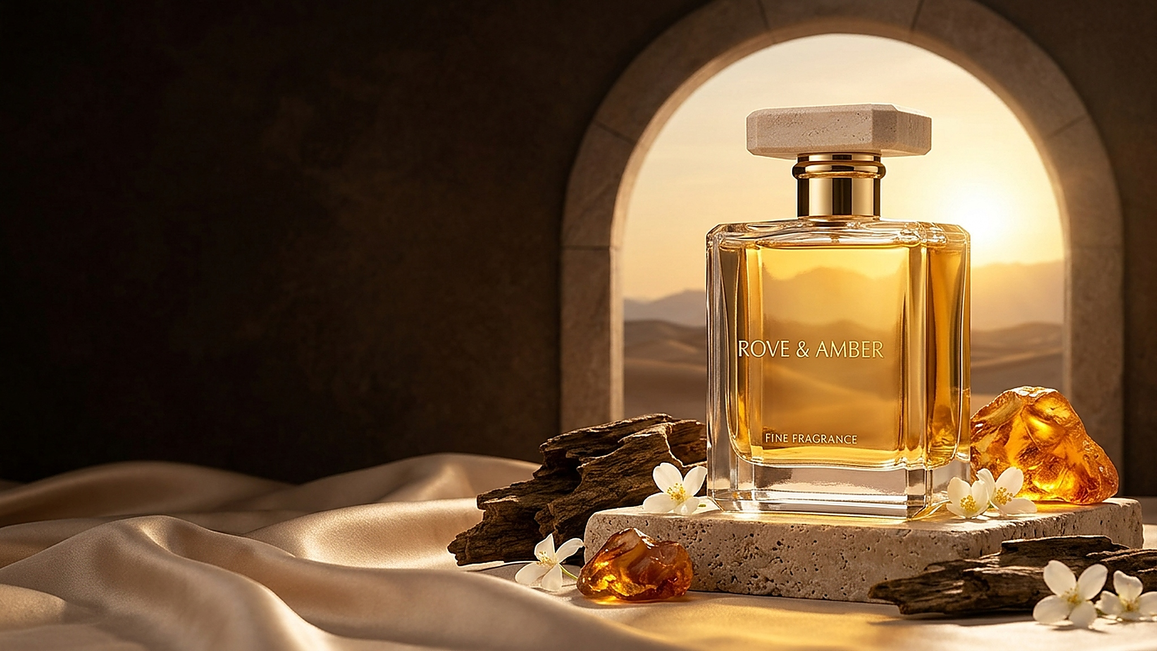
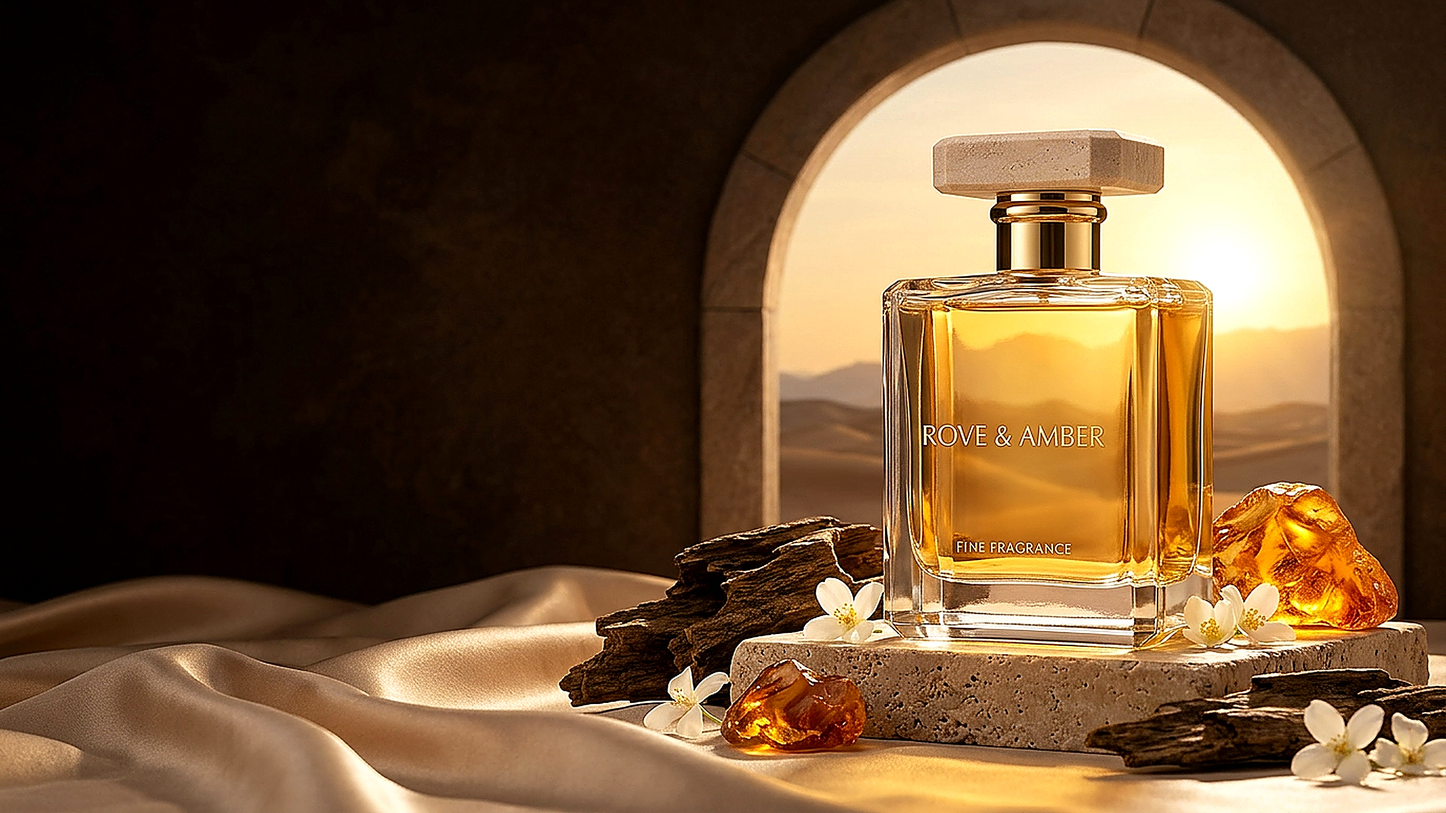
fix(hero): place explore button strictly right of shop now and enhance image clarity

diff --git a/client/src/components/home/Hero.jsx b/client/src/components/home/Hero.jsx
@@ -11,29 +11,29 @@ const Hero = () => {
         <picture>
           <source 
             media="(min-width: 768px)" 
-            srcSet="/images/perfumes/hero_campaign_clean_master_hd.jpg" 
+            srcSet="/images/perfumes/hero_campaign_ultra_clear_master.jpg" 
           />
           <img 
             src="/images/perfumes/hero_mobile_sunset_arch_hd.jpg" 
             alt="ROVE & AMBER Signature Eau de Parfum" 
-            className="w-full h-full object-cover object-[center_top] md:object-[78%_center] lg:object-[82%_center]"
+            className="w-full h-full object-cover object-[center_top] md:object-[68%_center] lg:object-[66%_center]"
             onError={(e) => {
-              e.target.src = '/images/perfumes/hero_campaign_clean_master_hd.jpg';
+              e.target.src = '/images/perfumes/hero_campaign_ultra_clear_master.jpg';
             }}
           />
         </picture>
 
         {/* Smooth, subtle dark-brown gradient from left to right (No backdrop-blur, completely seamless) */}
         <div className="absolute inset-0 bg-gradient-to-b from-black/60 via-black/20 to-black/45 md:hidden pointer-events-none" />
-        <div className="hidden md:block absolute inset-0 bg-gradient-to-r from-[#120905]/90 via-[#120905]/40 via-45% to-transparent w-full pointer-events-none" />
-        <div className="hidden md:block absolute top-0 inset-x-0 h-28 bg-gradient-to-b from-black/45 via-black/15 to-transparent pointer-events-none" />
+        <div className="hidden md:block absolute inset-0 bg-gradient-to-r from-[#120905]/85 via-[#120905]/20 via-40% to-transparent w-full pointer-events-none" />
+        <div className="hidden md:block absolute top-0 inset-x-0 h-24 bg-gradient-to-b from-black/40 via-black/10 to-transparent pointer-events-none" />
       </div>
 
       {/* Hero Text Content (Separately Rendered Vector Typography) */}
-      <div className="relative z-20 max-w-7xl mx-auto px-6 sm:px-10 lg:px-14 w-full pt-36 sm:pt-44 lg:pt-48 pb-10 sm:pb-12 flex-1 flex flex-col justify-start md:justify-center">
+      <div className="relative z-20 max-w-7xl mx-auto px-6 sm:px-10 lg:px-14 w-full pt-28 sm:pt-32 md:pt-36 lg:pt-36 pb-8 sm:pb-12 flex-1 flex flex-col justify-center">
         <div className="max-w-md sm:max-w-lg lg:max-w-xl text-left">
           {/* Eyebrow / Brand Descriptor */}
-          <div className="flex items-center gap-2.5 mb-3 sm:mb-4">
+          <div className="flex items-center gap-2.5 mb-2.5 sm:mb-3.5">
             <span className="w-6 sm:w-8 h-[1.5px] bg-[#E5B869]" />
             <p className="text-[10px] sm:text-xs md:text-sm tracking-[0.28em] font-medium uppercase text-[#E5B869] drop-shadow-sm">
               Fine Fragrance & Artisanal Perfumery
@@ -41,21 +41,21 @@ const Hero = () => {
           </div>
 
           {/* Main Title */}
-          <h1 className="text-3xl xs:text-4xl sm:text-5xl md:text-5xl lg:text-[62px] font-serif leading-[1.08] mb-3 sm:mb-5 font-normal tracking-tight text-white drop-shadow-[0_2px_14px_rgba(0,0,0,0.55)]">
+          <h1 className="text-3xl sm:text-4xl md:text-5xl lg:text-[58px] font-serif leading-[1.08] mb-3 sm:mb-4 font-normal tracking-tight text-white drop-shadow-[0_2px_14px_rgba(0,0,0,0.55)]">
             Discover Your <br />
             <span className="italic font-serif text-[#E5B869] font-normal">Signature Scent</span>
           </h1>
 
           {/* Subtitle / Description */}
-          <p className="text-xs sm:text-sm md:text-base lg:text-lg text-[#E8DDD0] font-light leading-relaxed mb-6 sm:mb-9 max-w-xs sm:max-w-md drop-shadow-sm">
+          <p className="text-xs sm:text-sm md:text-base lg:text-base text-[#E8DDD0] font-light leading-relaxed mb-6 sm:mb-8 max-w-xs sm:max-w-md drop-shadow-sm">
             Explore fine fragrances crafted to leave a lasting impression. Sculpted with aged amber, wild oud, and rare botanical essences.
           </p>
 
-          {/* Call to Action Buttons */}
-          <div className="flex flex-col xs:flex-row items-start xs:items-center gap-3 sm:gap-4">
+          {/* Call to Action Buttons (Explore button positioned directly to the right of Shop Now on one single line) */}
+          <div className="flex flex-row items-center gap-3 sm:gap-4 flex-nowrap">
             <Link
               href="/shop"
-              className="inline-flex items-center gap-2.5 px-7 sm:px-8 py-3 sm:py-3.5 rounded-full bg-gradient-to-r from-[#ECC880] via-[#DEB368] to-[#C99042] text-[#281608] text-xs sm:text-sm font-semibold tracking-wider shadow-xl shadow-amber-950/40 hover:brightness-110 active:scale-95 transition-all group"
+              className="inline-flex items-center gap-2.5 px-6 sm:px-8 py-3 sm:py-3.5 rounded-full bg-gradient-to-r from-[#ECC880] via-[#DEB368] to-[#C99042] text-[#281608] text-xs sm:text-sm font-semibold tracking-wider shadow-xl shadow-amber-950/40 hover:brightness-110 active:scale-95 transition-all shrink-0 whitespace-nowrap group"
             >
               <span>Shop Now</span>
               <span className="w-5 h-5 rounded-full bg-[#281608]/15 flex items-center justify-center group-hover:translate-x-0.5 transition-transform">
@@ -65,7 +65,7 @@ const Hero = () => {
 
             <Link
               href="/shop?category=Oud"
-              className="inline-flex items-center gap-2 px-6 sm:px-8 py-3 sm:py-3.5 rounded-full bg-white/10 hover:bg-white/20 backdrop-blur-md border border-white/30 text-white text-xs sm:text-sm font-medium tracking-wider shadow-sm hover:border-white/50 transition-all"
+              className="inline-flex items-center gap-2 px-6 sm:px-8 py-3 sm:py-3.5 rounded-full bg-white/10 hover:bg-white/20 backdrop-blur-md border border-white/30 text-white text-xs sm:text-sm font-medium tracking-wider shadow-sm hover:border-white/50 transition-all shrink-0 whitespace-nowrap"
             >
               <span>Explore Collection</span>
             </Link>
